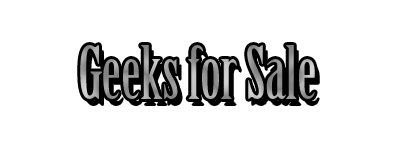
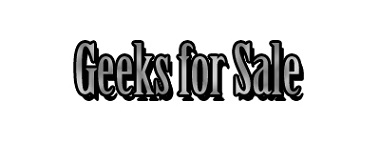
Fixing top image

diff --git a/StyleIndex.css b/StyleIndex.css
@@ -26,7 +26,7 @@ form {
 topImage{
 	position: absolute;
 	left: 40%;
-	top: 0.8%;
+	top: 1.4%;
 }
 
 button {
